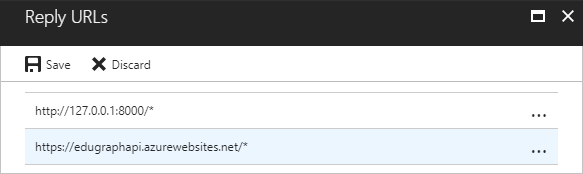
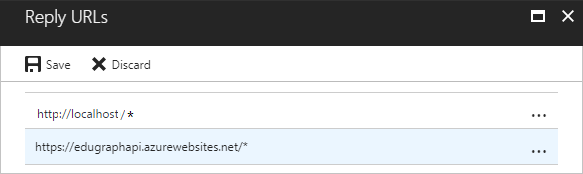
Update reply url.

Changed region(s): [[0.0617, 0.6034, 0.2779, 0.6897]]

diff --git a/README.md b/README.md
@@ -129,7 +129,7 @@ Export-PfxCertificate -Cert $cert -Password $password -FilePath c:\app_only_cert
 
 4. Input a **Name**, and select **Web app / API** as **Application Type**.
 
-   Input **Sign-on URL**: http://localhost. 
+   Input **Sign-on URL**: http://localhost/*. 
 
    ![](Images/aad-create-app-02.png)
 
